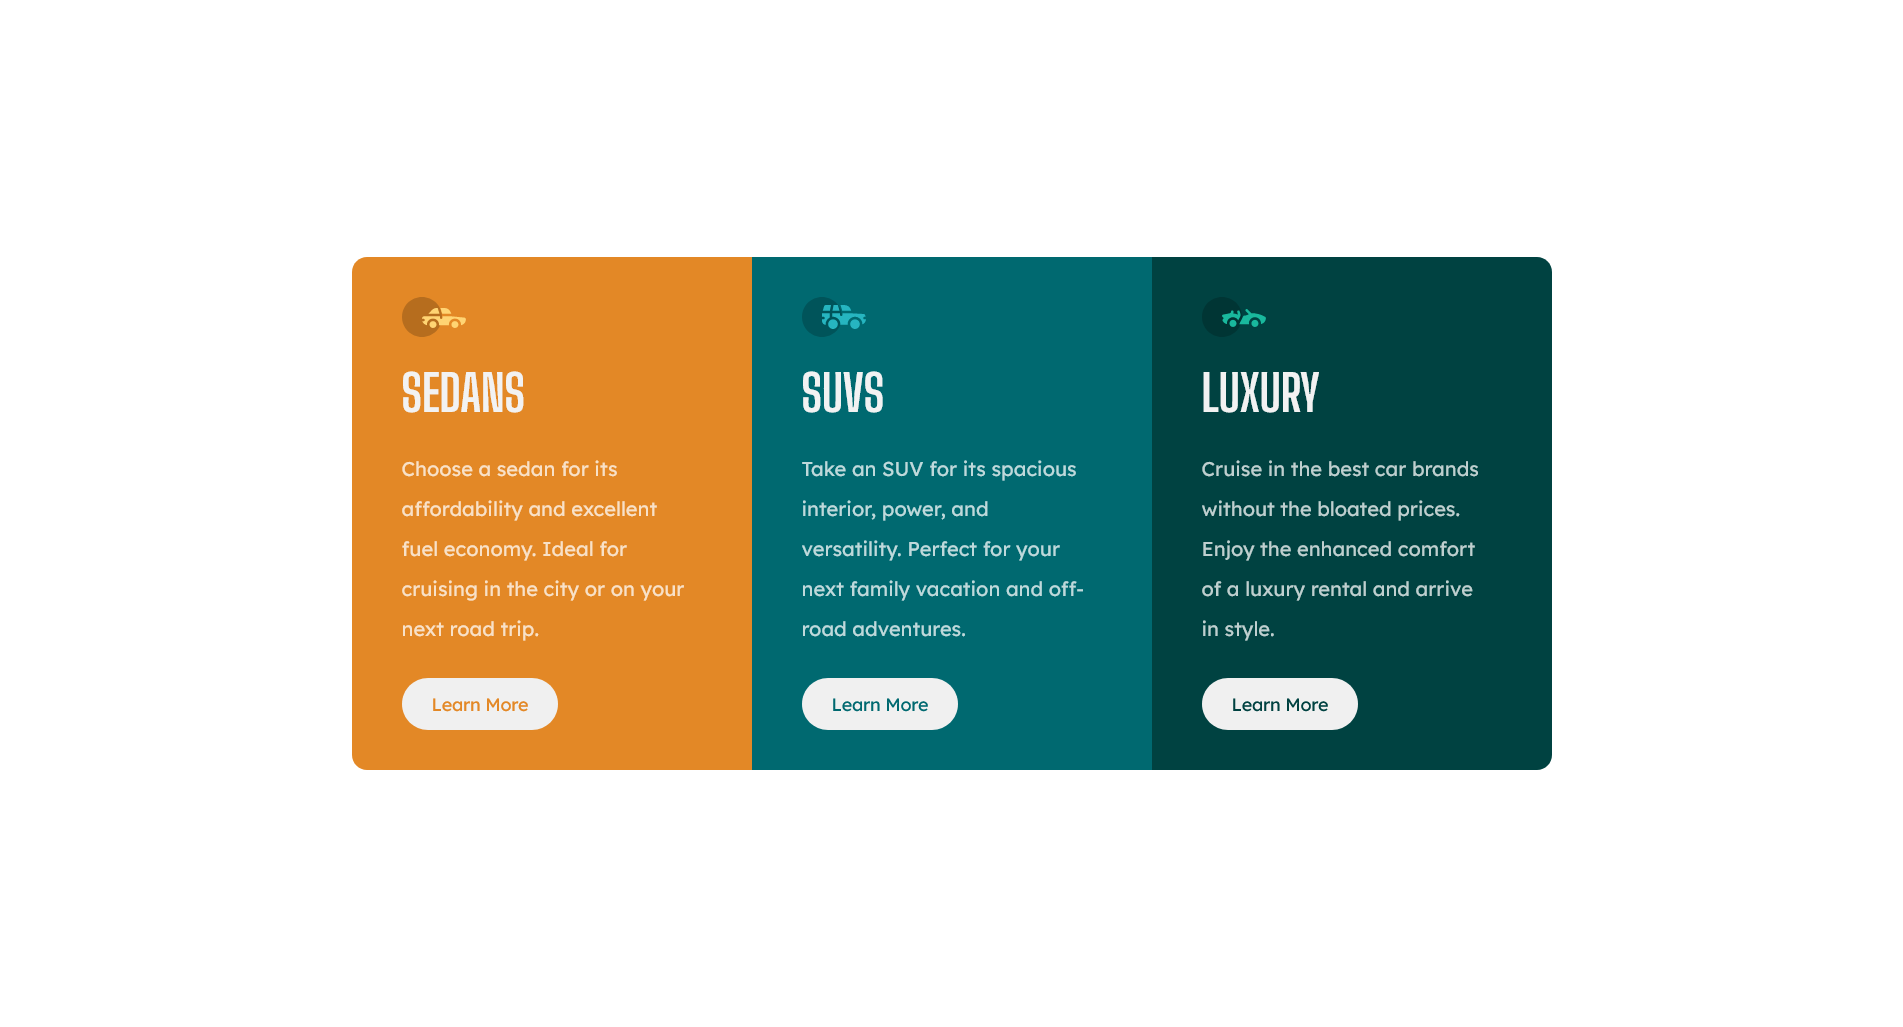
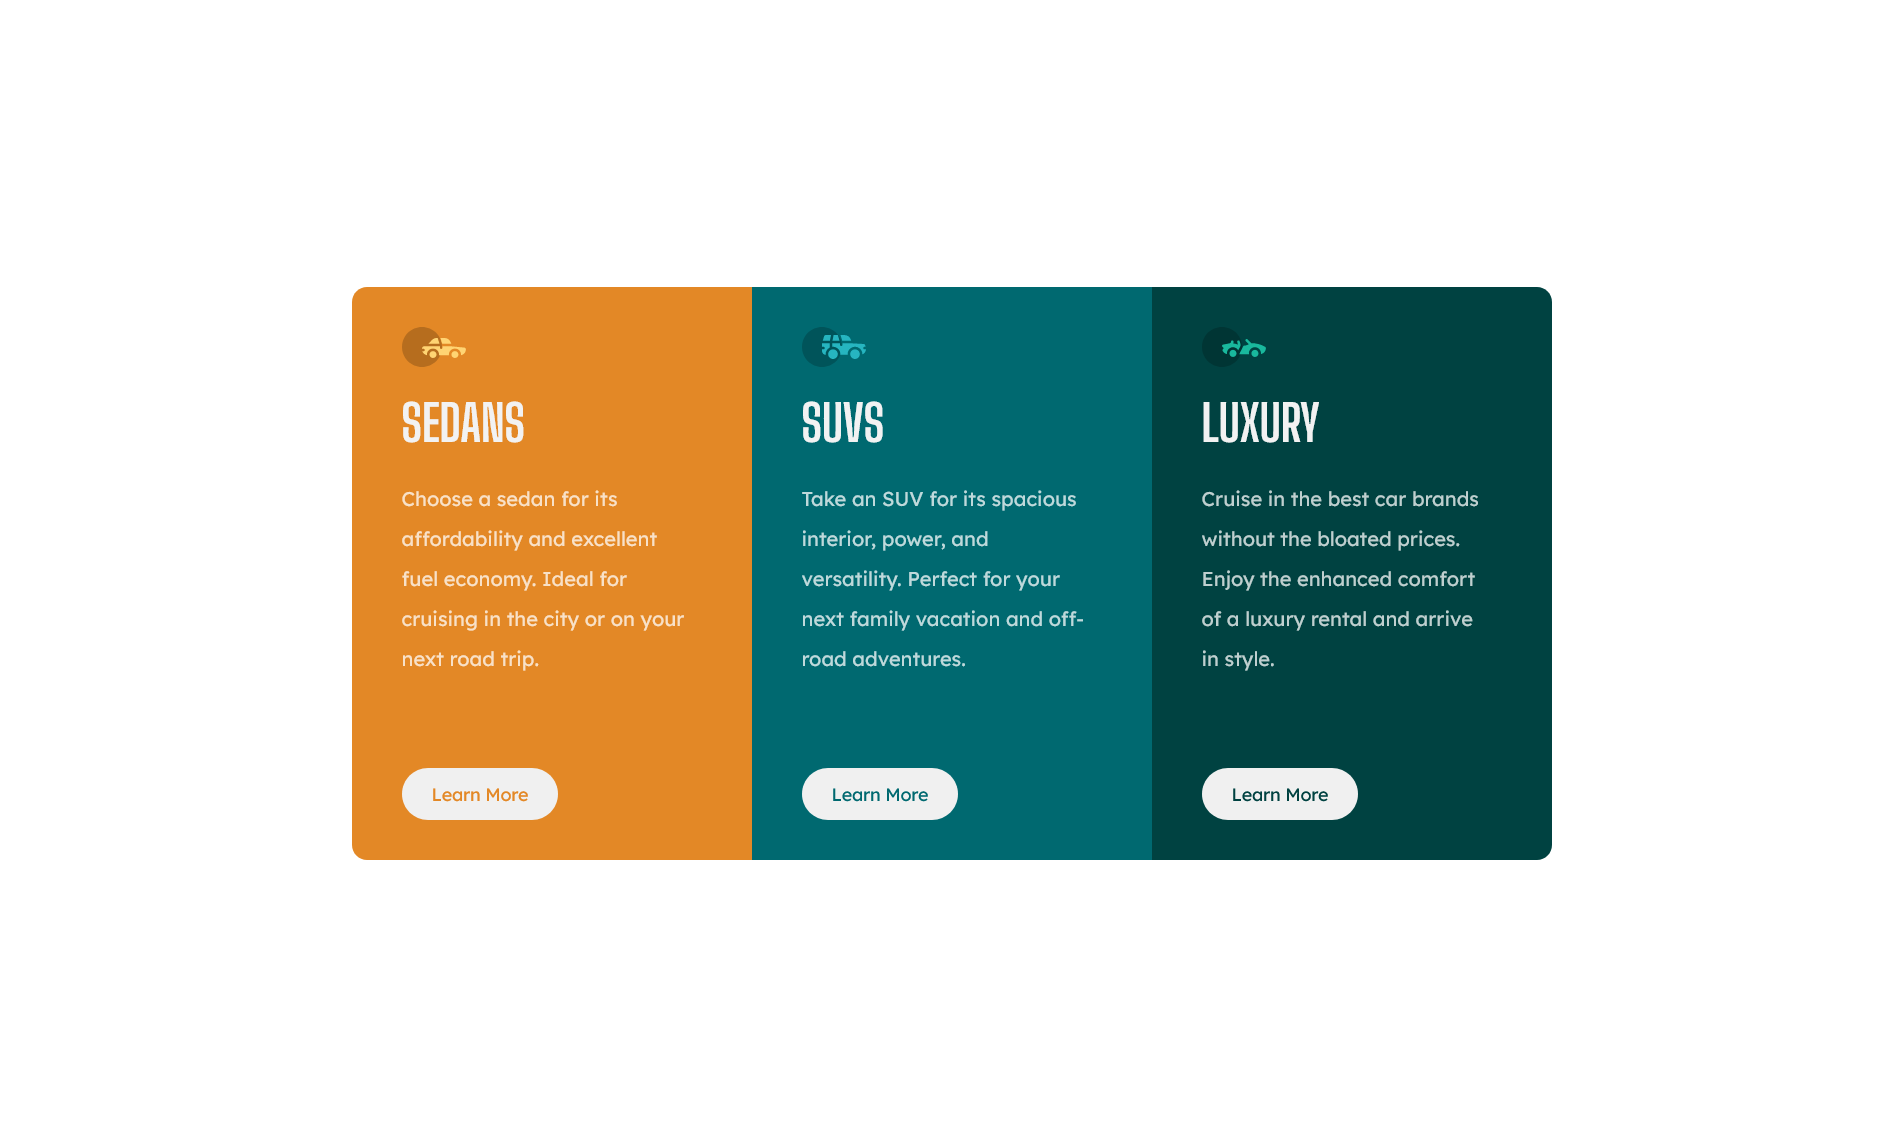
changes to padding and website screenshot

diff --git a/styles/style.css b/styles/style.css
@@ -124,7 +124,7 @@ body{
     .pg_style{
         font-size: clamp(1.5rem,1.25vw,2rem);
         line-height: 2;
-        padding: 3rem 0 3rem 0;
+        padding: 3rem 0 9rem 0;
     }
 
     .card_sizing{
